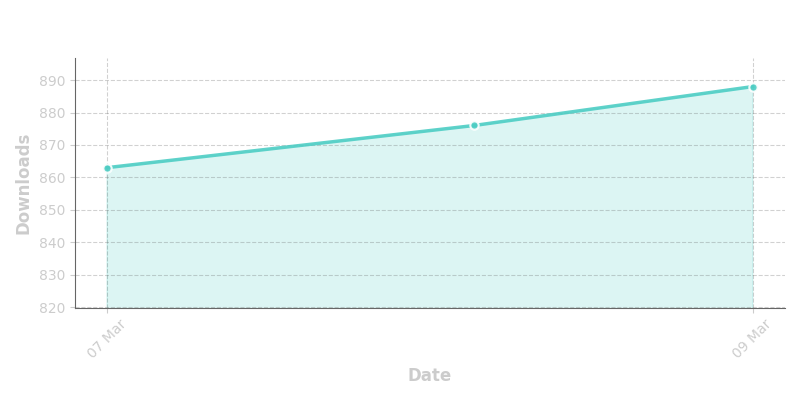
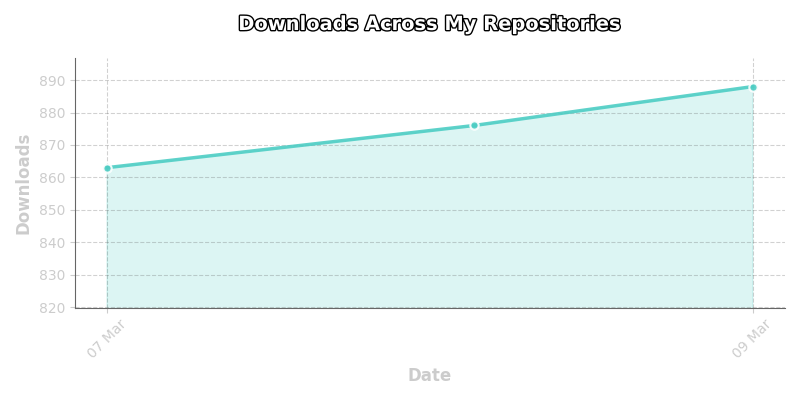
Change chart title to have a black outline so its still visible in light theme

Changed region(s): [[0.2812, 0.03, 0.7812, 0.09]]

diff --git a/scripts/generate_total_downloads_chart.py b/scripts/generate_total_downloads_chart.py
@@ -4,6 +4,7 @@ import os
 
 import matplotlib.pyplot as plt
 import matplotlib.dates as mdates
+import matplotlib.patheffects as path_effects
 
 from typing import NamedTuple
 
@@ -66,12 +67,14 @@ def make_chart(points: list[DataPoint], output_path: str = "charts/downloads.png
             markeredgecolor='white', 
             markerfacecolor='#4ECDC4',
             alpha=0.9)
-
+    
     ax.set_title("Downloads Across My Repositories", 
                 color='white', 
                 fontsize=14, 
-                fontweight='bold', 
-                pad=20)
+                fontweight='semibold', 
+                pad=20,
+                path_effects=[path_effects.Stroke(linewidth=2, foreground='black'),
+                         path_effects.Normal()])
 
     ax.set_ylabel("Downloads", 
                 color='#CCCCCC', 
